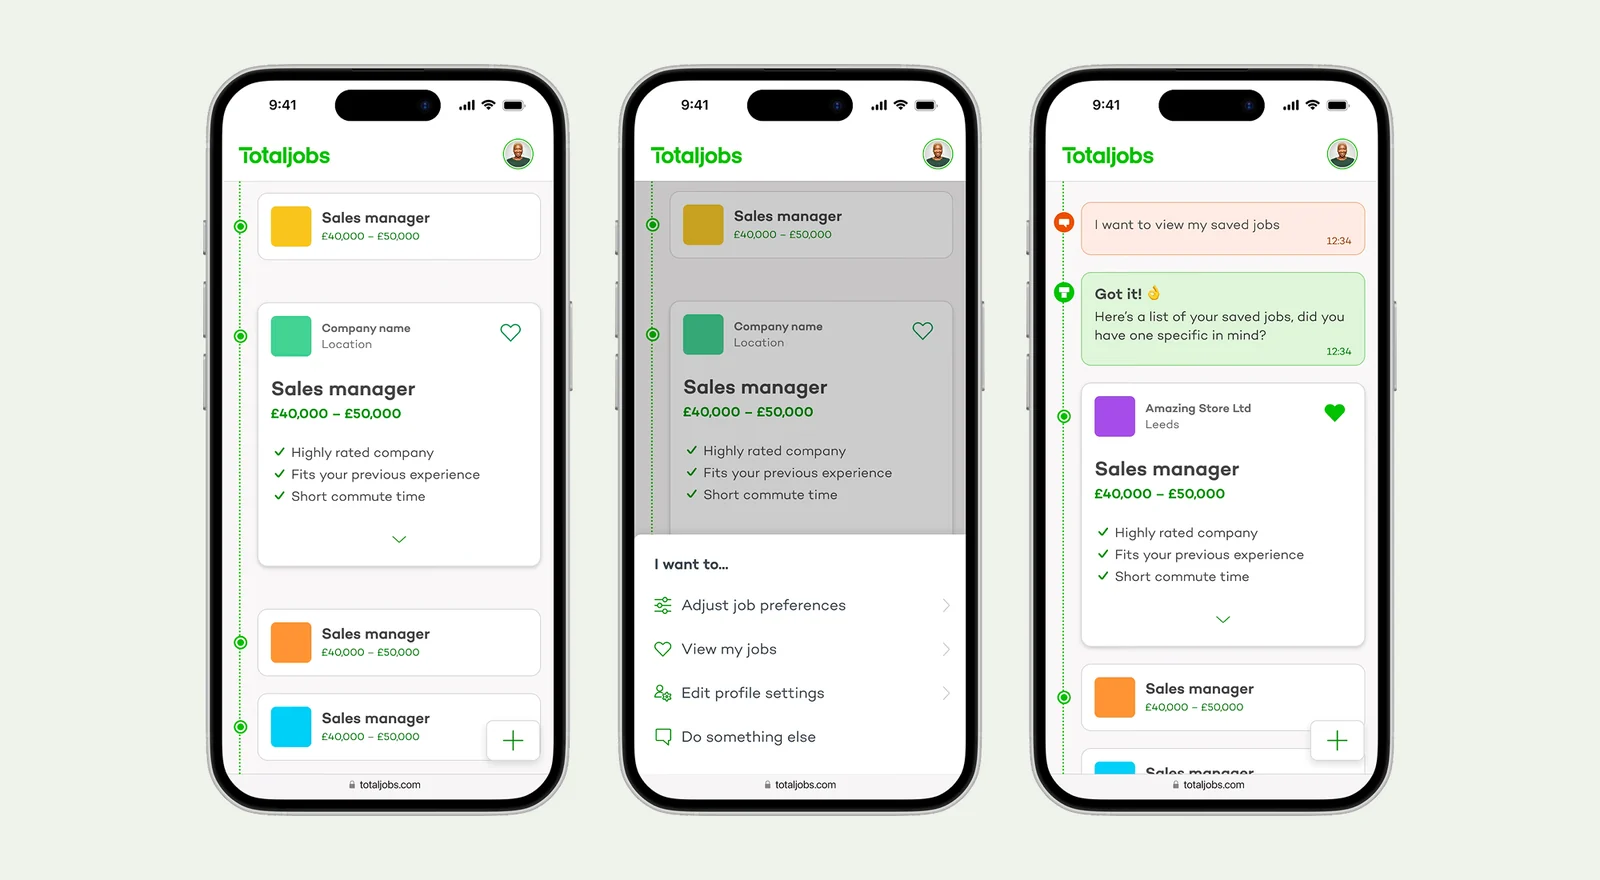
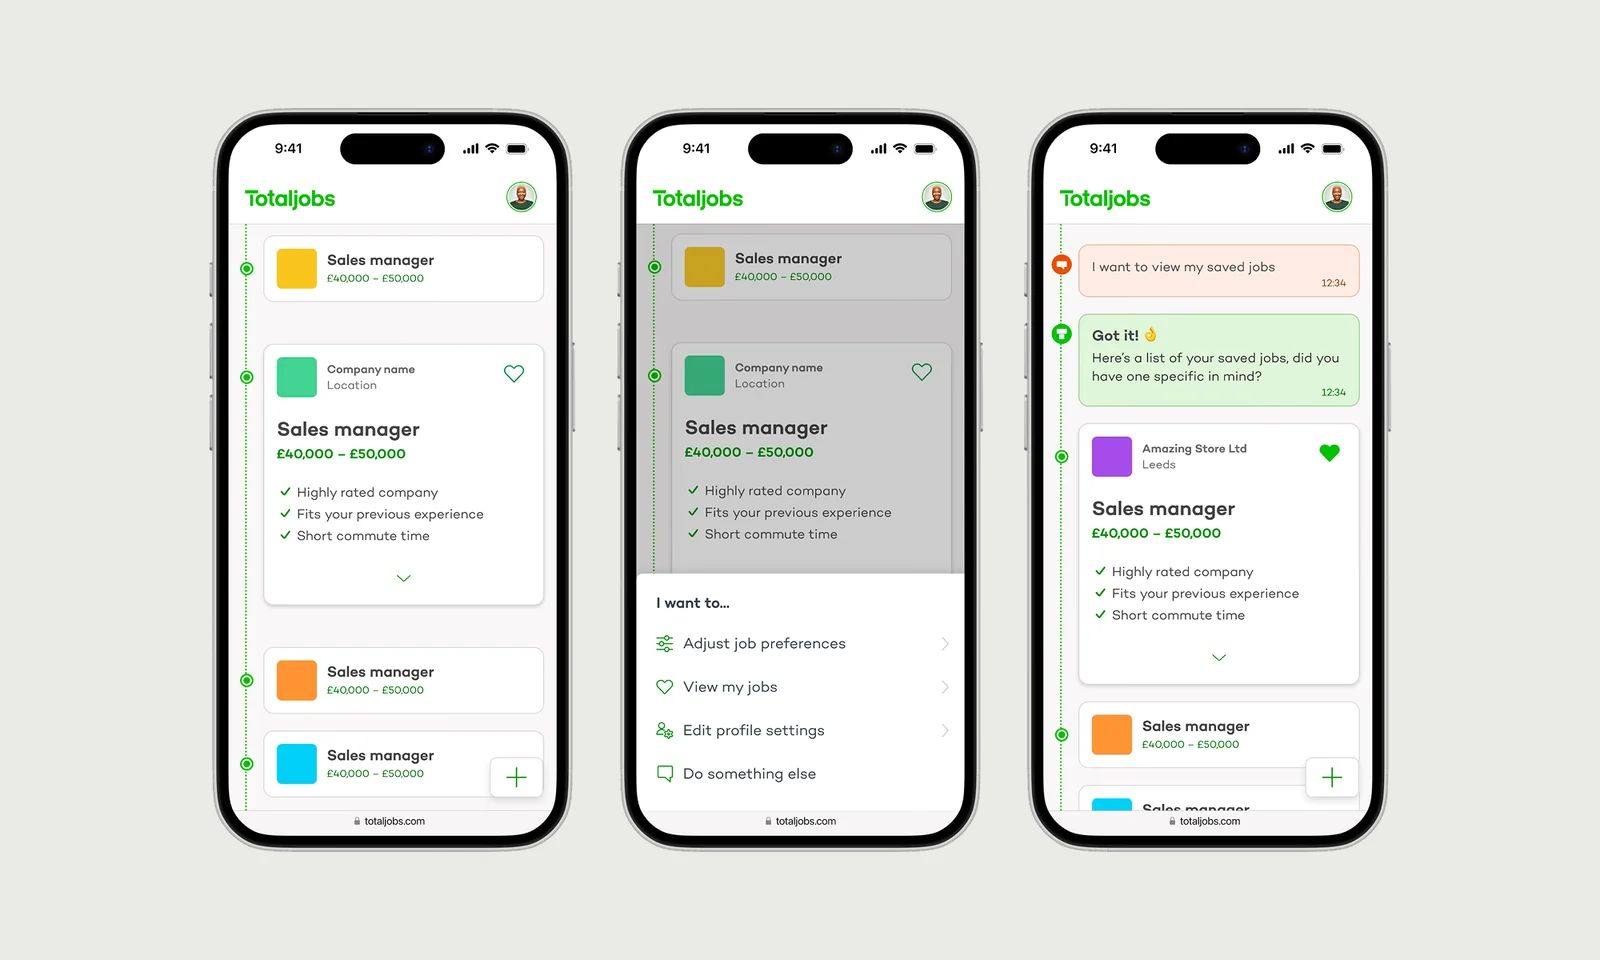
Update Totaljobs images to 2000x1200 and drop phone-only crops

Changed region(s): [[0.125, 0.0614, 0.875, 0.9511]]

diff --git a/index.html b/index.html
@@ -660,7 +660,7 @@ ul,ol{margin:0;padding:0;list-style:none}
     </dl>
   </div>
   <div class="wrap">
-    <figure class="fig"><button data-cap="Conversational welcome"><picture class="img-light"><source media="(max-width:760px)" srcset="img/totaljobs-1-mobile.webp" width="900" height="900"><img src="img/totaljobs-1.webp" width="1600" height="880" alt="Totaljobs app greeting the user with new job listings"></picture><picture class="img-dark"><source media="(max-width:760px)" srcset="img/totaljobs-1-mobile-dark.webp" width="900" height="900"><img src="img/totaljobs-1-dark.webp" width="1600" height="880" alt="Totaljobs app greeting the user with new job listings"></picture></button></figure>
+    <figure class="fig"><button data-cap="Conversational welcome"><img class="img-light" src="img/totaljobs-1.webp" width="1600" height="960" alt="Totaljobs app greeting the user with new job listings"><img class="img-dark" src="img/totaljobs-1-dark.webp" width="1600" height="960" alt="Totaljobs app greeting the user with new job listings"></button></figure>
     <section class="chapter split">
       <p class="t-label t-muted">01 · Concept</p>
       <div>
@@ -669,7 +669,7 @@ ul,ol{margin:0;padding:0;list-style:none}
       </div>
     </section>
     <div class="chapter figs" style="padding-top:var(--s-l)">
-      <figure class="fig c12"><button data-cap="Conversational onboarding and user guidance"><picture class="img-light"><source media="(max-width:760px)" srcset="img/totaljobs-2-mobile.webp" width="900" height="595"><img src="img/totaljobs-2.webp" width="1600" height="880" alt="Three phone screens of a conversational onboarding flow" loading="lazy"></picture><picture class="img-dark"><source media="(max-width:760px)" srcset="img/totaljobs-2-mobile-dark.webp" width="900" height="595"><img src="img/totaljobs-2-dark.webp" width="1600" height="880" alt="Three phone screens of a conversational onboarding flow" loading="lazy"></picture></button><figcaption class="t-label">Conversational onboarding &amp; user guidance</figcaption></figure>
+      <figure class="fig c12"><button data-cap="Conversational onboarding and user guidance"><img class="img-light" src="img/totaljobs-2.webp" width="1600" height="960" alt="Three phone screens of a conversational onboarding flow" loading="lazy"><img class="img-dark" src="img/totaljobs-2-dark.webp" width="1600" height="960" alt="Three phone screens of a conversational onboarding flow" loading="lazy"></button><figcaption class="t-label">Conversational onboarding &amp; user guidance</figcaption></figure>
     </div>
     <section class="chapter split">
       <p class="t-label t-muted">02 · Job cards</p>
@@ -679,7 +679,7 @@ ul,ol{margin:0;padding:0;list-style:none}
       </div>
     </section>
     <div class="chapter figs" style="padding-top:var(--s-l)">
-      <figure class="fig c12"><button data-cap="Job cards with just the right information"><picture class="img-light"><source media="(max-width:760px)" srcset="img/totaljobs-3-mobile.webp" width="900" height="595"><img src="img/totaljobs-3.webp" width="1600" height="880" alt="Three phone screens of focused job cards" loading="lazy"></picture><picture class="img-dark"><source media="(max-width:760px)" srcset="img/totaljobs-3-mobile-dark.webp" width="900" height="595"><img src="img/totaljobs-3-dark.webp" width="1600" height="880" alt="Three phone screens of focused job cards" loading="lazy"></picture></button><figcaption class="t-label">Focused job cards, filtering &amp; saving</figcaption></figure>
+      <figure class="fig c12"><button data-cap="Job cards with just the right information"><img class="img-light" src="img/totaljobs-3.webp" width="1600" height="960" alt="Three phone screens of focused job cards" loading="lazy"><img class="img-dark" src="img/totaljobs-3-dark.webp" width="1600" height="960" alt="Three phone screens of focused job cards" loading="lazy"></button><figcaption class="t-label">Focused job cards, filtering &amp; saving</figcaption></figure>
     </div>
     <a class="next" href="#hintsa"><p class="t-label t-muted">Next case · Hintsa Performance</p><p class="t-display"><span>Scalable performance coaching</span><span class="go">→</span></p></a>
   </div>
